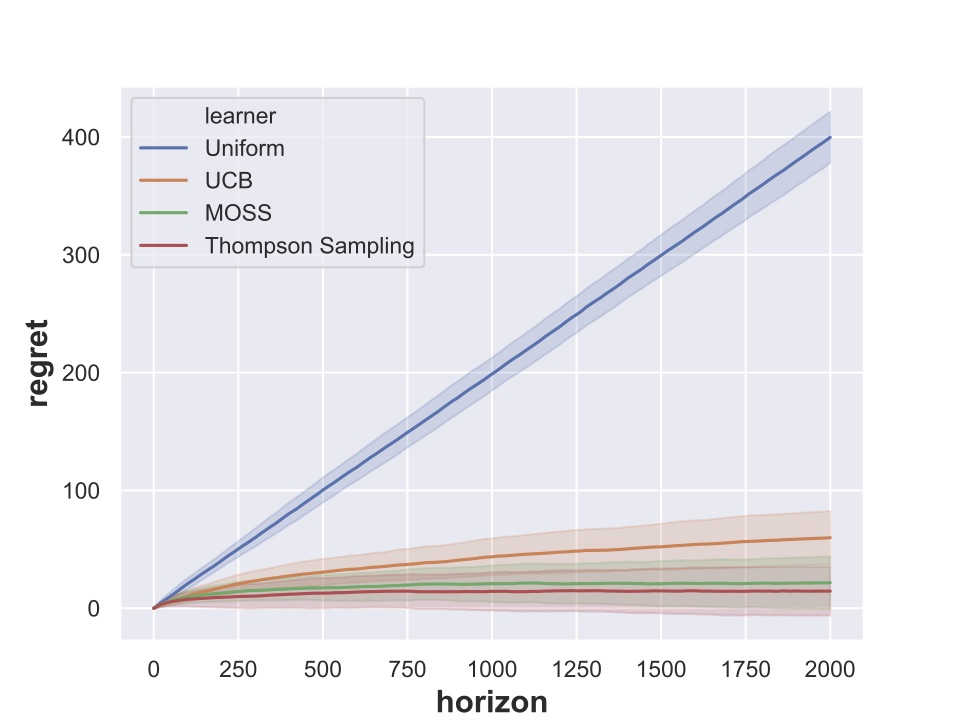
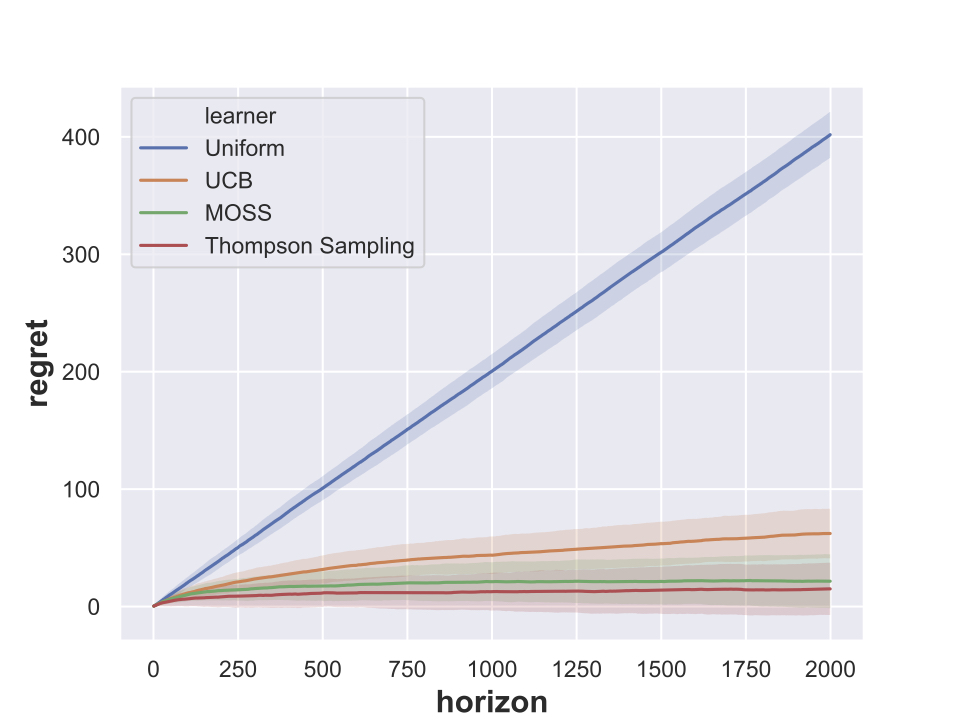
refactor and hide filled area edges

diff --git a/learners/regretmin/utils.py b/learners/regretmin/utils.py
@@ -41,7 +41,12 @@ class RegretMinimizationLearner(Learner):
 
   @property
   def _horizon(self):
-    return self.__horizon
+    return self._pars['horizon']
+
+  @property
+  def __frequency(self):
+    # frequency to record intermediate regret results
+    return self._pars['freq']
 
   def __init__(self):
     super().__init__()
@@ -54,13 +59,7 @@ class RegretMinimizationLearner(Learner):
     self.__rewards += feedback[0]
 
   def _one_trial(self, seed):
-    """
-    Input:
-      pars['horizon']
-      pars['feq']: frequency to record intermediate regret results
-    """
     np.random.seed(seed)
-    self.__horizon = self._pars['horizon']
 
     ############################################################################
     # learner initialization
@@ -68,13 +67,13 @@ class RegretMinimizationLearner(Learner):
     ############################################################################
 
     agg_regret = dict()
-    for t in range(self._pars['horizon'] + 1):
+    for t in range(self._horizon + 1):
       if t > 0:
         # simulation starts from t = 1
         context = self._bandit.context
         action = self._choice(context)
         feedback = self._bandit.feed(action)
         self._update(context, action, feedback)
-      if t % self._pars['feq']:
+      if t % self.__frequency:
         agg_regret[t] = self._bandit.regret(self.__rewards)
     return dict({self.name: agg_regret})

diff --git a/learners/utils.py b/learners/utils.py
@@ -74,6 +74,16 @@ class Learner(ABC):
   def __init__(self):
     pass
 
+  @property
+  def __trials(self):
+    # # of repetitions of the play
+    return self._pars['trials']
+
+  @property
+  def __processors(self):
+    # maximum number of processors can be used
+    return self._pars['processors']
+
   def _init(self, bandit):
     # time starts from 1
     bandit.init()
@@ -96,13 +106,15 @@ class Learner(ABC):
       f.flush()
 
   def __multi_proc(self):
-    pool = Pool(processes = self._pars['processors'])
+    pool = Pool(processes = self.__processors)
 
-    for _ in range(self._pars['trials']):
+    for _ in range(self.__trials):
       result = pool.apply_async(self._one_trial, args=(current_time(), ),
           callback=self.__write_to_file)
       if FLAGS.debug:
-        # for debug purposes
+        # for debugging purposes
+        # to make sure error info of subprocesses will be reported
+        # this flag could heavily increase the running time
         result.get()
 
     # can not apply for processes any more

diff --git a/learners/bestarmid/fixbudget/utils.py b/learners/bestarmid/fixbudget/utils.py
@@ -47,7 +47,7 @@ class FixBudgetBAILearner(Learner):
 
   @property
   def _budget(self):
-    return self.__budget
+    return self._pars['budget']
 
   def __init__(self):
     super().__init__()
@@ -60,20 +60,14 @@ class FixBudgetBAILearner(Learner):
     pass
 
   def _one_trial(self, seed):
-    """
-    Input:
-      pars["budget"]
-    """
-
     np.random.seed(seed)
-    self.__budget = self._pars['budget']
 
     ############################################################################
     # learner initialization
     self._init(self._bandit)
     ############################################################################
 
-    budget_remain = self.__budget
+    budget_remain = self._budget
 
     while True:
       context = self._bandit.context
@@ -91,4 +85,4 @@ class FixBudgetBAILearner(Learner):
 
     regret = self._bandit.best_arm_regret(self._best_arm())
 
-    return dict({self.name: [self.__budget, regret] })
+    return dict({self.name: [self._pars['budget'], regret] })

diff --git a/draw.py b/draw.py
@@ -7,6 +7,8 @@ import os
 
 from absl import logging
 
+from matplotlib.collections import PolyCollection
+
 import matplotlib.pyplot as plt
 import pandas as pd
 import seaborn as sns; sns.set()
@@ -71,7 +73,13 @@ def draw_figure(data_file, out_file, novar):
     ci_val = None
   else:
     ci_val = 'sd'
-  sns.lineplot(x='horizon', y='regret', hue='learner', data=results, ci=ci_val)
+
+  ax = sns.lineplot(
+      x='horizon', y='regret', hue='learner', data=results, ci=ci_val)
+
+  # hide edges of filled area
+  for child in ax.findobj(PolyCollection):
+    child.set_linewidth(0.0)
 
   plt.ylabel('regret', fontweight='bold', fontsize=15)
   plt.xlabel('horizon', fontweight='bold', fontsize=15)

diff --git a/main.py b/main.py
@@ -70,13 +70,8 @@ def main(argv):
     # clean file
     open(data_file, 'w').close()
 
-    if FLAGS.debug:
-      for learner in learners:
-        learner.play(bandit, data_file, dict({
-            'horizon':20, 'feq':2, 'trials':2, 'processors':2}))
-    else:
-      for learner in learners:
-        learner.play(bandit, data_file, pars)
+    for learner in learners:
+      learner.play(bandit, data_file, pars)
 
   if FLAGS.do in ['f', 'all']:
     # figure generation
